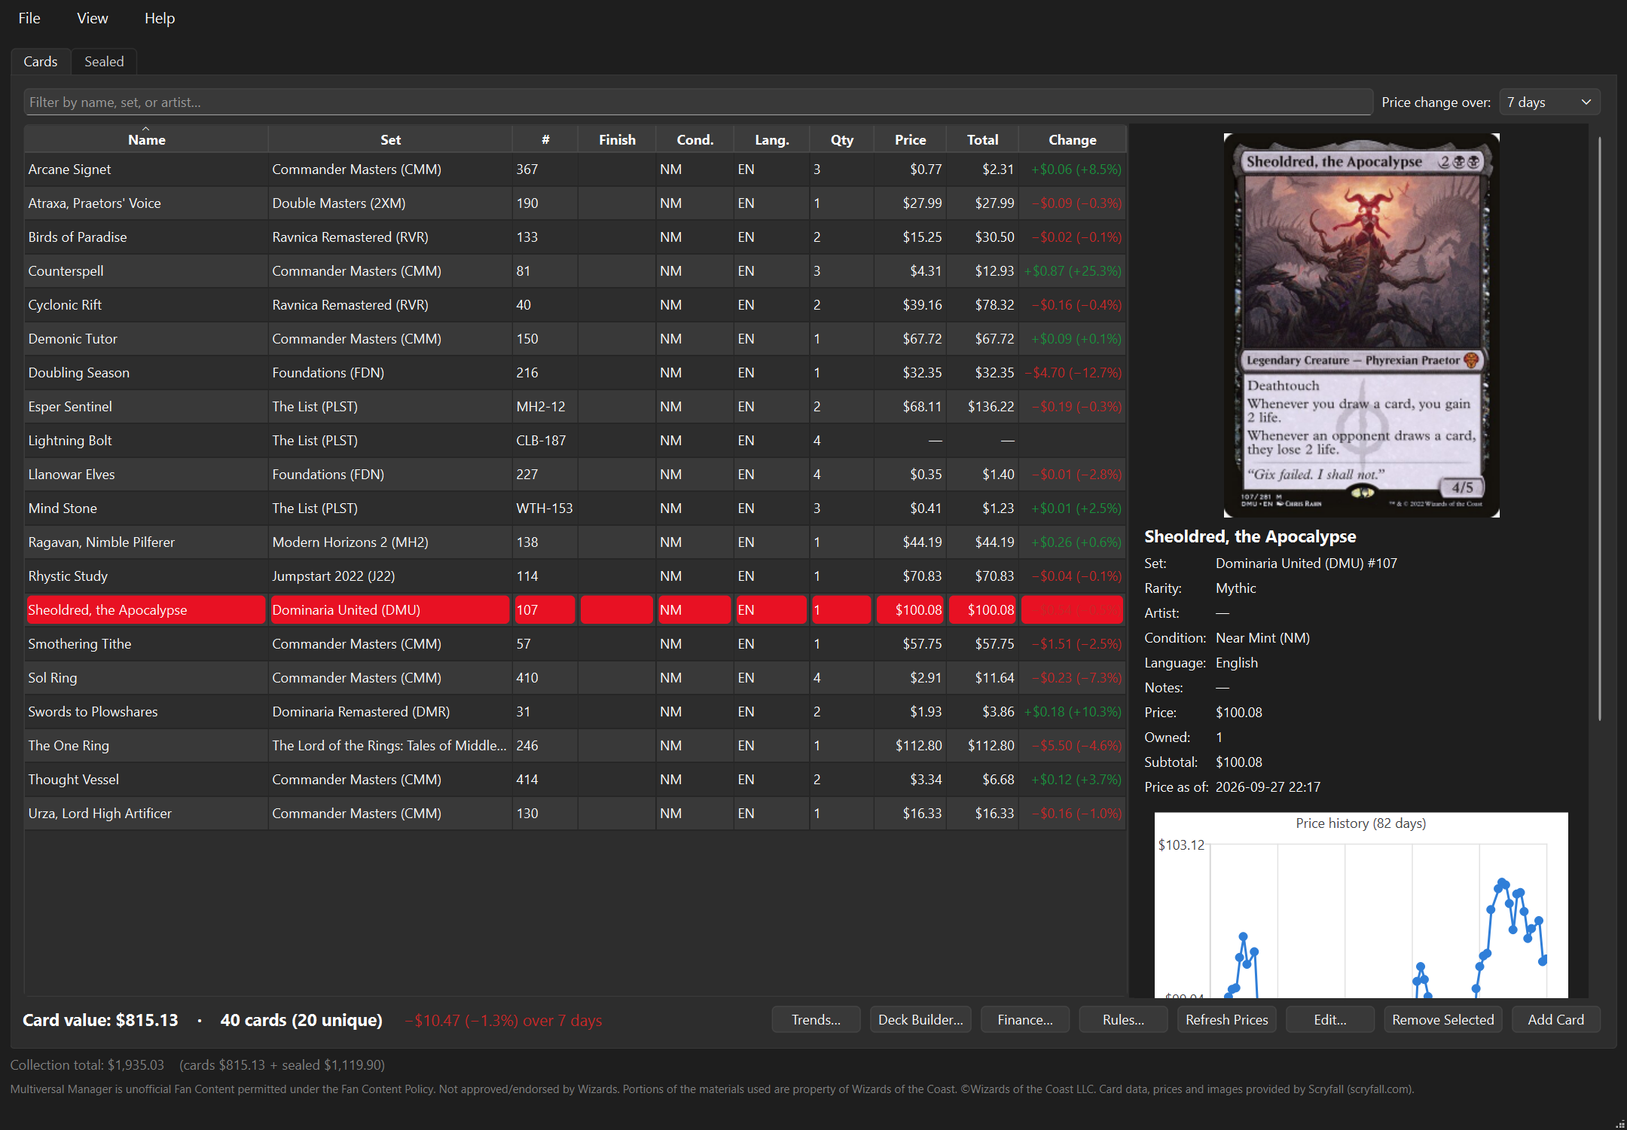
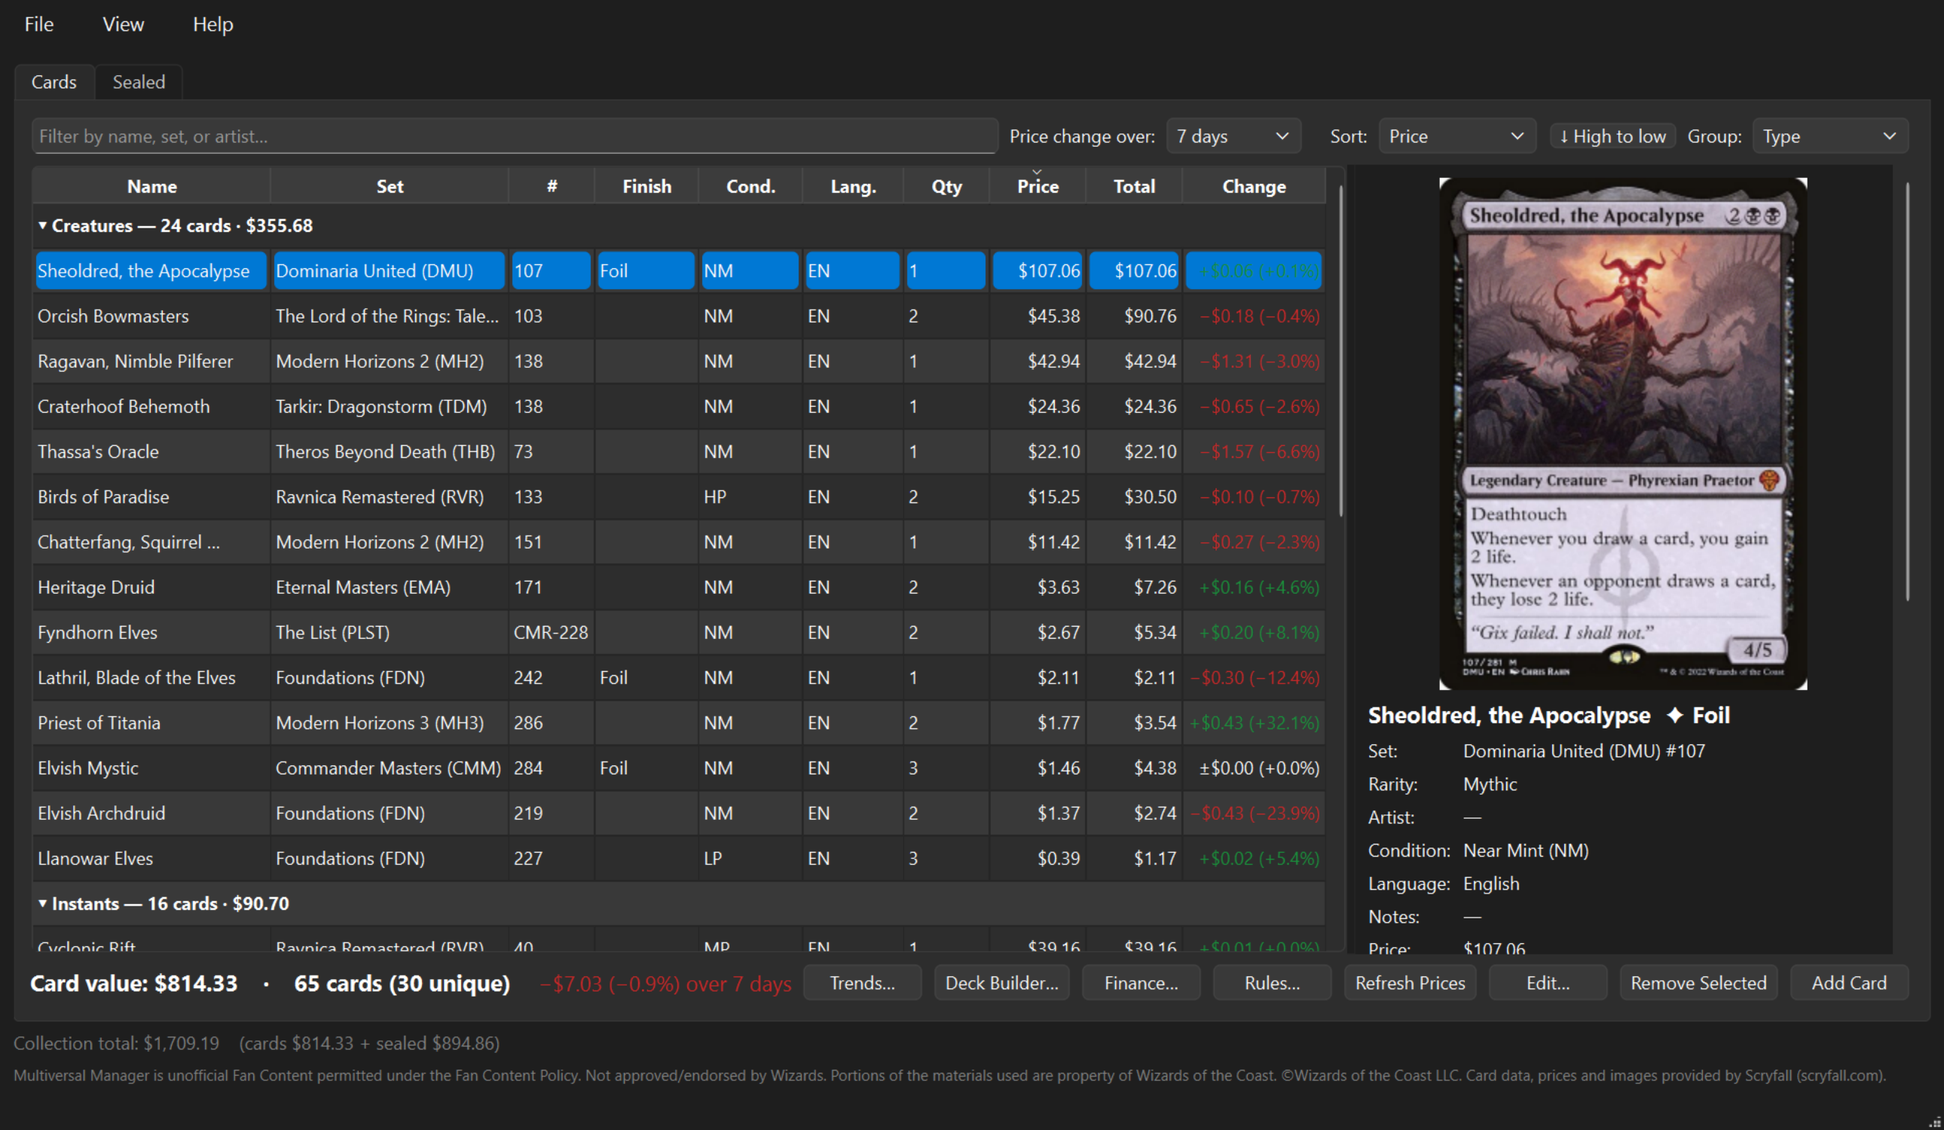
Updated README.md and added various bug fixes to desktop, web, and app

diff --git a/mobile/web_decks.py b/mobile/web_decks.py
@@ -215,6 +215,7 @@ class DecksPage:
         self.scored = {}              # (query, themes, partner cards) -> synergy.score() result
         self.card_rows = {}           # card name -> its Scryfall details (None: not found), for the visit
         self.combos = {}              # commander names -> their Commander Spellbook combos, for the visit
+        self.looked_up = set()        # card names already asked of Scryfall this visit (found or not)
         self.explore = {"query": "", "type": "", "rows": [], "page": 0, "more": False, "total": 0, "for": None,
                         "sort": "Name", "colors": True}
         self.mine = {"search": "", "type": "", "legal": True}
@@ -272,6 +273,7 @@ class DecksPage:
     def show_home(self):
         owned = db.owned_by_name()
         everything = db.get_lists()
+        self._fill_home_card_data(everything)
         lists = [l for l in everything
                  if (self.home["kind"] == "all" or l["kind"] == self.home["kind"])
                  and self.home["search"].lower() in l["name"].lower()]
@@ -307,6 +309,17 @@ class DecksPage:
         self.view.content = ft.Container(ft.Column([toolbar, grid], spacing=18, expand=True),
                                          padding=ft.Padding.symmetric(horizontal=PAGE_PADDING, vertical=18), expand=True)
         self.page.update()
+
+    def _fill_home_card_data(self, lists):
+        # The decks' legality, types and colors this browser hasn't looked up yet (a reload forgets
+        # them), so the tiles' problem counts match the decks'; once per name per visit
+        missing = {e["name"] for l in lists if l["kind"] == "deck"
+                   for e in db.get_list_entries(l["id"]) if e["legalities"] is None} - self.looked_up
+        if missing:
+            self.looked_up |= missing
+            rows = self.busy("Looking up cards", lambda: scryfall.fetch_card_data(missing))
+            if rows:
+                db.add_oracle_cards(rows)
 
     def _set_home(self, **changes):
         self.home.update(changes)
@@ -581,13 +594,13 @@ class DecksPage:
     def _deck_panel(self, s):
         quick = _field('+ Quick add: type "4 Lightning Bolt" and press Enter', expand=True,
                        on_submit=lambda e: self.quick_add(e.control.value))
-        tools = [quick]
+        tools = []
         if s["is_deck"]:
             tools += [_dropdown(self.add_to, [(sec, f"Add to: {SECTION_TITLES[sec]}") for sec in SECTIONS],
                                 lambda e: self.set_add_to(e.control.value), 190)]
-        tools.append(self.sort_tools)
         tools.append(_dropdown(self.row_size, [(k, f"Rows: {k}") for k in ROW_SIZES],
-                               lambda e: self.set_row_size(e.control.value), 150))
+                               lambda e: self.set_row_size(e.control.value), 165))
+        tools.append(self.sort_tools)  # last, so it wraps onto a line of its own in a narrow panel
         # Headings with a drag handle between each two, in place of the rows' 8 pixel spacing
         cells, self.header_cells = [], []
         for i, (label, _, right) in enumerate(GRID_HEADERS):
@@ -600,7 +613,9 @@ class DecksPage:
             secondary_items=[ft.PopupMenuItem(content="Reset column widths", on_click=lambda e: self.reset_columns())],
             secondary_trigger=ft.ContextMenuTrigger.DOWN)
         return ft.Column([
-            ft.Container(ft.Row(tools, spacing=8, wrap=True, run_spacing=8), padding=10, border=ft.Border.only(bottom=ft.BorderSide(1, theme.LINE))),
+            # Quick add on its own line: an expanding field can't go in a wrapping row (Flutter draws a grey box)
+            ft.Container(ft.Column([ft.Row([quick]), ft.Row(tools, spacing=8, wrap=True, run_spacing=8)], spacing=8),
+                         padding=10, border=ft.Border.only(bottom=ft.BorderSide(1, theme.LINE))),
             self.warn_box, header, self.deck_rows], spacing=0, expand=True)
 
     def _fill_deck(self, s):
@@ -1086,7 +1101,8 @@ class DecksPage:
         filters = [ft.Checkbox(label="Cards I own", value=rec["owned"], on_change=lambda e: self._rec(owned=e.control.value)),
                    ft.Checkbox(label="Staples", value=rec["staples"], on_change=lambda e: self._rec(staples=e.control.value)),
                    _dropdown(rec["price"], [(k, k) for k in PRICES], lambda e: self._rec(price=e.control.value), 130),
-                   theme.button("Available combos", lambda e: self.show_combos(s, commanders, identity))]
+                   *([theme.button("Available combos", lambda e: self.show_combos(s, commanders, identity))]
+                     if brackets.SPELLBOOK_REACHABLE else [])]
         controls = [ft.Text(f"Build around (color identity {identity or 'colorless'}):", size=12, color=theme.MUTED),
                     self._theme_picker(commanders), ft.Row(filters, spacing=4, wrap=True, run_spacing=4)]  # wraps on a phone
         if s["info"]["bracket"]:
@@ -1186,8 +1202,10 @@ class DecksPage:
             if report.combos_checked:
                 combos = [" + ".join(c.cards) for c in report.combos]
                 lines.append(_check(not broken.get("Two-card combos"), f"Two-card combos: {', '.join(combos) or 'none'}"))
-            else:
+            elif brackets.SPELLBOOK_REACHABLE:
                 lines.append(theme.button("Check for combos (Commander Spellbook)", lambda e: self.check_combos(s)))
+            else:
+                lines.append(ft.Text(brackets.NO_SPELLBOOK, size=12, color=theme.MUTED))
             lines.append(ft.Text(f"These cards fit {brackets.label(report.minimum())}.", size=12, color=theme.MUTED))
         return lines
 

diff --git a/brackets.py b/brackets.py
@@ -15,6 +15,7 @@ October 21, 2025 update and the Game Changers changes of February 9, 2026.
 
 # Imports
 import re
+import sys
 from dataclasses import dataclass, field
 
 import requests
@@ -23,6 +24,9 @@ import scryfall
 
 SPELLBOOK = "https://backend.commanderspellbook.com/estimate-bracket"
 SPELLBOOK_SEARCH = "https://backend.commanderspellbook.com/variants/"
+# Commander Spellbook only answers browsers on its own site (CORS), so the website can't ask it
+SPELLBOOK_REACHABLE = sys.platform != "emscripten"
+NO_SPELLBOOK = "Combo checks need the desktop or phone app: Commander Spellbook only answers its own website."
 COMBO_PAGE, COMBO_PAGES = 100, 10  # a commander's combos: up to 1,000
 FEW_EXTRA_TURNS = 2  # ponytail: "low quantities" isn't a number; 2 is a guess, tune if it flags fair decks
 

diff --git a/mobile/decks.py b/mobile/decks.py
@@ -301,7 +301,9 @@ class Decks:
         lines += [ft.Row([ft.Text(title, color=MUTED, size=13, width=130),
                           ft.Text(", ".join(names) or "none", size=13, expand=True)],
                          vertical_alignment=ft.CrossAxisAlignment.START) for title, names in found]
-        if spellbook is None:
+        if spellbook is None and not brackets.SPELLBOOK_REACHABLE:
+            lines.append(ft.Text(brackets.NO_SPELLBOOK, size=12, color=MUTED))
+        elif spellbook is None:
             lines.append(ft.OutlinedButton("Check for combos (Commander Spellbook)", icon=ft.Icons.SEARCH,
                                            on_click=self.check_combos))
         return _box(lines)

diff --git a/README.md b/README.md
@@ -16,26 +16,28 @@ Everything it recommends is worked out from the cards themselves (their rules te
 
 ### Your collection
 
-![The collection: every card with its price, change and history](docs/screenshots/collection.png)
+![The collection sorted by price and grouped by card type, each group with its count and value, and the selected card's details](docs/screenshots/collection.png)
 
 - **Exact printings, not just card names --** Add cards and their printings into your collection! From there, the possibilities are endless! Use the cards you own for the decks you'd like to build, or search through the MTG card database for cards you'd need but don't own (yet!).
 - **Condition, language and notes --** The program also picks up on the conditions of cards, their language, and any notes you'd like to put down for them ("signed" or "in the red binder"). If you have the same printing in two conditions or languages, each gets its own entry. Importing decks or cards/card lists pick these up from other tools' CSV files too.
 - **Live value --** A running total of what your collection is worth, plus card counts and how each card's price has moved over the last 24 hours, 7, 30 or 90 days, or all time. (Limited by the current app/market data)
 - **Price history for every card --** All cards have their price history backdated 3 months; Only real market changes count as movement, so adding or removing cards never looks like a gain or a loss.
-- **Trends** (Ctrl+T) -- How your collection's value has changed over time, along with your biggest winners and losers.
+- **Trends** (Ctrl+T) -- How your collection's value has changed over time, along with your biggest winners and losers. On the website it's a tab on the Cards page, and on the phone you tap your collection's total.
+- **Sort and group it your way --** Sort by name, price, quantity, mana value, color, type, rarity, set or date added, either way around, and group cards by type, color, mana value, rarity, set, finish or condition. Each group shows how many cards it has and what they're worth, and folds away with a click. It works the same in the desktop app, on the website and on the phone, for your collection, your decks, binders and wishlists, and your sealed product, and each list remembers how you left it.
+- **Scan cards with your phone --** Point the camera at a card and the app reads its name, set and collector number to find the exact printing. It runs on the phone itself, with no internet needed to read the card. Add it to your collection, or open a deck and scan straight into it.
 - **Bring your collection with you --** Import CSV exports from Moxfield, ManaBox, Deckbox and most other tools (columns are matched by their headers), or paste a text file/doc like `4 Lightning Bolt` or `1x Sol Ring (C21) 263 *F*`. You get to review everything before it's saved, and any card where the printing is a guess shows up first, with a picture to help you pick the right one.
 - **Export** to CSV whenever you like.
-- **Sealed product --** The *Sealed* tab keeps track of booster boxes, bundles, precons, prerelease kits and anything else still in shrinkwrap. Pick from MTGJSON's list of every sealed product ever made (search by name or set, filter by type), or type in anything that isn't listed. Each entry keeps what you paid and what it's worth now (you enter both for now; right-click to look it up on TCGplayer), and the bottom of the window shows your cards, your sealed product and the two combined.
+- **Sealed product --** The *Sealed* tab (on the desktop, the website and the phone) keeps track of booster boxes, bundles, precons, prerelease kits and anything else still in shrinkwrap. Pick from MTGJSON's list of every sealed product ever made (search by name or set, filter by type), or type in anything that isn't listed. Each entry keeps what you paid and what it's worth now (you enter both for now; right-click to look it up on TCGplayer), and the bottom of the window shows your cards, your sealed product and the two combined.
 - **Quick edits --** Right-click or double-click a card to change its printing, finish, quantity or price. Adding a printing you already own just bumps the quantity instead of making a duplicate.
 - **Automatic backups --** The app backs up your collection once a day when it starts and keeps the last 10. Want one right now? *File → Back Up Now*. Need to go back? *File → Restore from Backup…* rolls you back, and saves your current collection first so you can undo the restore too. Backups stay small (a few MB up to tens of MB) because they skip price history that can just be downloaded again.
 
 ### Deck Builder
 
-![The Deck Builder: a Commander deck checked against its bracket, with recommendations for its commander](docs/screenshots/deck-builder.png)
+![The Deck Builder: a Commander deck grouped by card type and sorted by mana value, checked against its bracket, with recommendations for its commander](docs/screenshots/deck-builder.png)
 
 Open it with Ctrl+L. It works for Standard, Pioneer, Modern, Legacy, Vintage, Pauper, Commander, Oathbreaker, Brawl and every other format Scryfall tracks, and you can make binders and wishlists there too.
 
-- **Three panels --** The selected card's details (rules text, legality, how many you own, and −1 / +1 buttons), your deck grouped by section, and a grid of card images to build from, each showing how many copies you own.
+- **Three panels --** The selected card's details (rules text, legality, how many you own, and −1 / +1 buttons), your deck grouped by section (or by type, color, mana value, rarity or set, sorted however you like), and a grid of card images to build from, each showing how many copies you own.
 - **Stats --** The *Stats* tab shows a deck's mana curve and average mana value, its colors by mana symbols, how many of each card type (and the share of lands), and its most valuable cards. It's there in the desktop app, on the website and on the phone (the chart button on a deck).
 - **Build from what you have, or explore all of what MTG has to offer --** *My Cards* shows your collection, *Explore* shows every card in Magic: The Gathering. Search, filter by type, color, or "legal for this deck", and sort however you like.
 - **Pick your printing --** Choosing a different printing opens a window with every version of the card: its image, set, rarity, and the price of each finish, plus how many you own.
@@ -60,7 +62,9 @@ Your window into the wider Magic: The Gathering market (Ctrl+Shift+F).
 - **Track what you care about --** Add a single printing, every printing of a card, or entire sets with *Track Cards…*. Remove a printing or a whole set with Delete or a right-click. Price history sticks around either way.
 - **History from day one --** The first launch grabs 90 days of price history for every card, so you get trends right away. After that the app saves each day's prices and the history just keeps growing.
 
-> Heads up: the first time you open Finance it downloads about 140 MB (card data plus 90 days of prices), and the database grows to a few hundred MB. Prices update once a day, as often as the data sources publish them.
+On the website and the phone, Finance works from a market file that GitHub builds once a day: every printing's price today and over the last 90 days, a few MB instead of hundreds. Tap a card on the phone for its enlarged image, its price over every period, its history and how many you own.
+
+> Heads up: the first time you open Finance on the desktop it downloads about 140 MB (card data plus 90 days of prices), and the database grows to a few hundred MB. Prices update once a day, as often as the data sources publish them.
 
 ### Rules
 
@@ -84,9 +88,15 @@ New versions are checked for once a week. Everything comes straight from Wizards
 <details>
 <summary><b>More screenshots</b></summary>
 
-![Sealed product: what you paid, what it's worth, and the gain](docs/screenshots/sealed.png)
+![Sealed product grouped by product type: what you paid, what it's worth, and the gain](docs/screenshots/sealed.png)
 
 ![The Commander Brackets page in the rules window](docs/screenshots/rules-brackets.png)
+
+![The website's Deck Builder: the deck grouped by type, the selected card, and your cards to add](docs/screenshots/web-deck-builder.png)
+
+![The website's Trends tab: your collection's value over 90 days and its biggest gainers and losers](docs/screenshots/web-trends.png)
+
+![The website's Finance page: the day's biggest price spikes and a card's price history](docs/screenshots/web-finance.png)
 
 </details>
 
@@ -99,8 +109,18 @@ The bigger idea is a set of connected apps that all share the same collection:
 | Platform | Status |
 |---|---|
 | **Desktop** | Available! |
-| **Android** | Available; collection and prices, Deck Builder (with Stats, and Recommended and Available Combos for Commander decks), the rules judge, and a camera card scanner |
-| **Web** | [multiversalmanager.app](https://multiversalmanager.app), updated with every release; the desktop's layout in your browser (collection, Deck Builder with Commander recommendations, rules), signed in to the same account |
+| **Android** | Available; collection and prices, sealed product, Trends, Finance, importing, Deck Builder (with Stats, and Recommended and Available Combos for Commander decks), the rules judge, and a camera card scanner that adds to your collection or straight into a deck |
+| **Web** | [multiversalmanager.app](https://multiversalmanager.app), updated with every release; the desktop's layout in your browser (collection, sealed product, Trends, Finance, importing, Deck Builder with Commander recommendations, rules), signed in to the same account. Prefer the phone's layout? Switch to it from the account menu |
+
+![The website: the collection's value at a glance, sorted and grouped like the desktop app](docs/screenshots/web-cards.png)
+
+<p align="center">
+  <img src="docs/screenshots/phone-collection.png" width="160" alt="The phone app's collection, grouped by type">
+  <img src="docs/screenshots/phone-sort.png" width="160" alt="Sort and group choices on the phone">
+  <img src="docs/screenshots/phone-deck.png" width="160" alt="A Commander deck on the phone, with its bracket and grouping">
+  <img src="docs/screenshots/phone-trends.png" width="160" alt="Collection Trends on the phone">
+  <img src="docs/screenshots/phone-finance.png" width="160" alt="Finance on the phone: the week's price spikes">
+</p>
 
 The goal: add a card on your phone while you're at the store, and it's already there on your desktop when you get home. Sign in under *File → Sync Account* on the desktop (the person icon on the phone) with the same account on each, and your cards, decks and sealed product sync on their own within a few seconds. Each device keeps its own copy in a local SQLite database, so everything still works offline and catches up the next time it's online.
 
@@ -179,6 +199,10 @@ python interactions.py build
 
 Rebuilds `interactions.json.gz` from the card database and rulings on your computer (open the Deck Builder and the Rules window once so both are downloaded). It takes about half a minute. Every release does this for you: it downloads Scryfall's newest card data and rulings and rebuilds the file before building the apps (`python interactions.py build --download`, which uses a throwaway database and never touches your collection), so committing the file is only needed to try new data before a release. Cards newer than the file still pair up by their rules text.
 
+### The website's market data
+
+The website and the phone can't download the whole card market like the desktop does, so `.github/workflows/market.yml` builds a small summary of it once a day on GitHub (`python market.py market.json.gz`) and publishes it on the `market-data` branch, where Finance and Trends read it. It runs on its own; to start it by hand, use *Run workflow* on the Actions tab.
+
 ### Releasing a new version
 
 Tests run on GitHub for every push (the badge at the top). To publish a version, tag it and push the tag:
@@ -220,6 +244,9 @@ multiversal-manager/
     build.py                 # Builds the Windows app: portable zip and installer (installer.iss)
     brackets.py              # Commander Brackets: the brackets, Game Changers, and checking a deck
     price_changes.py         # How prices moved over a period, shared by every app
+    market.py                # The daily market summary behind Finance and Trends on the website and phone
+    card_sorting.py          # Sorting and grouping cards, the same in every app
+    sort_bar.py              # The desktop's Sort / Group controls and group headings
     trends.py                # The Trends window
     database.py              # SQLite storage, price history and schema upgrades
     backup.py                # Daily backups, Back Up Now and Restore
@@ -231,7 +258,7 @@ multiversal-manager/
     card_image.py            # Card images, loaded in the background and never cropped
     charts.py                # Price and value history charts
     scryfall.py              # Card data, prices, images and bulk downloads
-    mtgjson.py               # 90-day price history backfill
+    mtgjson.py               # 90-day price history backfill and the list of sealed products
     background.py            # Keeps network work off the interface thread
     sync.py                  # Syncing with the other devices (Supabase), merging edits made on both
     ask.py                   # The rules judge's Ask a Rules Question, shared with the phone app
@@ -246,6 +273,14 @@ multiversal-manager/
         web_desktop.py       # The website's desktop layout: header, dashboard tiles, collection table
         web_decks.py         # The website's Deck Builder, in the desktop's three-panel layout
         web_rules.py         # The website's Rules page, laid out like the desktop's Rules window
+        web_finance.py       # The website's Finance page
+        web_sealed.py        # The website's Sealed tab
+        web_trends.py        # Trends, for the website and the phone
+        web_import.py        # Importing on the website, with the desktop's review step
+        phone_finance.py     # Finance on the phone
+        phone_sealed.py      # Sealed product on the phone
+        phone_import.py      # Importing on the phone
+        sort_controls.py     # Sort / Group controls for the website and the phone
         card_form.py         # The website's Add / Edit Card window
         theme.py             # Colors, fonts and shared controls for the phone and website
         build_apk.py         # Builds the APK
